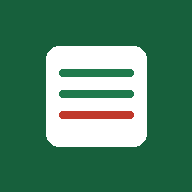
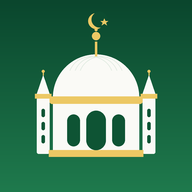
Add files via upload

diff --git a/index.html b/index.html
@@ -4,8 +4,9 @@
 <meta charset="utf-8">
 <meta name="viewport" content="width=device-width, initial-scale=1, viewport-fit=cover">
 <link rel="manifest" href="manifest.json"><meta name="theme-color" content="#17603c"><link rel="icon" href="icon-192.png"><link rel="apple-touch-icon" href="icon-192.png">
-<title>হিসাবের খাতা</title>
+<title>আল-মিফতাহ</title>
 <link href="https://fonts.googleapis.com/css2?family=Hind+Siliguri:wght@400;500;600;700&display=swap" rel="stylesheet">
+<link href="https://fonts.googleapis.com/css2?family=Amiri&display=swap" rel="stylesheet">
 <style>
 :root{--bg:#f1f5f2;--inc:#1f7a4d;--card:#fff;--ink:#14261c;--mut:#5d7066;--g:#1f7a4d;--g2:#17603c;--line:#dbe5de;--red:#c0392b;--amb:#b7791f;--blue:#2b6cb0;box-sizing:border-box;padding-top:env(safe-area-inset-top,0px);padding-bottom:env(safe-area-inset-bottom,0px)}
 @media(prefers-color-scheme:dark){:root:not([data-theme="light"]){--bg:#0f1a14;--inc:#3fae77;--card:#182a20;--ink:#e8f1ea;--mut:#9bb1a3;--g:#3fae77;--g2:#2d8a5b;--line:#2a4234;--red:#ef7a6c;--amb:#e0b050;--blue:#6aa7e8}}
@@ -70,14 +71,18 @@ header{position:relative}
 .sw{display:flex;gap:10px;margin-top:8px}.swb{width:38px;height:38px;border-radius:50%;border:3px solid transparent;cursor:pointer}.swb.on{border-color:var(--ink)}
 #lock{position:fixed;inset:0;background:var(--bg);z-index:50;display:flex;align-items:center;justify-content:center;padding:20px}#lock[hidden]{display:none}
 .lbox{width:100%;max-width:320px;text-align:center}.lbox h2{color:var(--g)}
-textarea{width:100%;padding:10px;border:1px solid var(--line);border-radius:10px;font:inherit;background:var(--bg);color:var(--ink);resize:vertical}.note{white-space:pre-wrap;margin-top:4px;word-break:break-word}.cmp{padding:10px;border-radius:10px;background:var(--bg);text-align:center;font-weight:700;margin-top:8px}.toast{position:fixed;left:50%;bottom:90px;transform:translateX(-50%);background:var(--ink);color:var(--bg);padding:12px 16px;border-radius:12px;z-index:60;max-width:90%;text-align:center}</style>
+textarea{width:100%;padding:10px;border:1px solid var(--line);border-radius:10px;font:inherit;background:var(--bg);color:var(--ink);resize:vertical}.note{white-space:pre-wrap;margin-top:4px;word-break:break-word}.cmp{padding:10px;border-radius:10px;background:var(--bg);text-align:center;font-weight:700;margin-top:8px}.toast{position:fixed;left:50%;bottom:90px;transform:translateX(-50%);background:var(--ink);color:var(--bg);padding:12px 16px;border-radius:12px;z-index:60;max-width:90%;text-align:center}.g3{display:grid;grid-template-columns:repeat(3,1fr);gap:10px;margin-top:12px}.g3 .tile{padding:12px 4px}.g3 .tile span{font-size:24px}.g3 .tile b{font-size:13px;font-weight:600}
+.ar{font-family:'Amiri','Noto Naskh Arabic','Scheherazade New',serif;direction:rtl;text-align:right;line-height:2.1;font-size:26px;margin:6px 0}.an{font-size:.6em;color:var(--g)}.tr{margin:4px 0 12px;padding-bottom:10px;border-bottom:1px solid var(--line)}
+.srb{display:flex;align-items:center;gap:10px;width:100%;padding:11px 4px;background:none;border:0;border-bottom:1px solid var(--line);font:inherit;color:var(--ink);cursor:pointer}.srb:last-child{border:0}.sno{width:34px;height:34px;border-radius:50%;background:var(--bg);display:flex;align-items:center;justify-content:center;font-size:13px;color:var(--g);font-weight:700}
+details{border-bottom:1px solid var(--line);padding:8px 0}summary{cursor:pointer;font-weight:600}</style>
 </head>
 <body>
-<header><button id="mb" aria-label="মেনু">☰</button><h1>হিসাবের খাতা</h1><p id="hsub">আয়–ব্যয়ের সহজ হিসাব</p></header>
+<header><button id="mb" aria-label="মেনু">☰</button><h1>আল-মিফতাহ</h1><p id="hsub">ইবাদত ও হিসাব এক জায়গায়</p></header>
 <main id="app"></main>
 <div id="dov"></div>
 <nav id="drw" aria-label="মেনু"><div id="dtop"></div>
-<button class="mi" data-m="home">🏠 হোম</button>
+<button class="mi" data-m="hub">🕌 আল-মিফতাহ (মূল পাতা)</button>
+<button class="mi" data-m="home">📒 হিসাবের খাতা</button>
 <button class="mi" data-m="books">📚 আমার পেইজসমূহ</button>
 <button class="mi" data-m="acct">✉ Google অ্যাকাউন্ট (Gmail)</button>
 <button class="mi" data-m="set">⚙ সেটিং</button>
@@ -93,7 +98,7 @@ textarea{width:100%;padding:10px;border:1px solid var(--line);border-radius:10px
 </aside>
 <script src="https://accounts.google.com/gsi/client" async defer onload="gReady()"></script>
 <script>
-var lday='',lmonth='all',pendingPic='',KEY='hishab-v1', db={entries:[]}, view='home', month=new Date().toISOString().slice(0,7);
+var lday='',lmonth='all',pendingPic='',KEY='hishab-v1', db={entries:[]}, view='hub', month=new Date().toISOString().slice(0,7);
 try{var s=localStorage.getItem(KEY);if(s)db=JSON.parse(s)}catch(e){}
 function save(skip){try{localStorage.setItem(KEY,JSON.stringify(db))}catch(e){}if(!skip&&window.gQueue)gQueue()}
 var T={income:['আয়','💰'],expense:['খরচ','🧾'],loan:['ধার–পাওনা','🤝'],saving:['সঞ্চয়','🐷'],market:['বাজার','🛒']};
@@ -105,10 +110,12 @@ function bal(f){return sum('income',f)-sum('expense',f)-sum('market',f)}
 function render(){normalize();
  var h='';
  if(view==='home'){
-  var b=bal();h+=bookBar();
+  var b=bal();h+='<button class="chip" data-v="hub" style="margin-bottom:10px">← আল-মিফতাহ মূল পাতা</button>'+bookBar();
   h+='<div class="bal"><small>বর্তমান ব্যালেন্স</small><div class="big'+(b<0?' neg':'')+'">'+tk(b)+'</div><div class="row3"><div>আয়<b>'+tk(sum('income'))+'</b></div><div>খরচ + বাজার<b>'+tk(sum('expense')+sum('market'))+'</b></div><div>সঞ্চয়<b>'+tk(sum('saving'))+'</b></div></div></div>'+limitCard()+zakatBanner()+'<div class="grid">';
   ['income','expense','loan','saving','market'].forEach(function(k){h+='<button class="tile" data-v="'+k+'"><span>'+T[k][1]+'</span><b>'+T[k][0]+'</b></button>'});
   h+='<button class="tile" data-v="month"><span>📅</span><b>মাসিক হিসাব</b></button><button class="tile wide" data-v="chart"><span>📋</span><b>সব <i class="cg">আয়</i>–<i class="cr">ব্যয়</i></b></button><button class="tile" data-v="notes"><span>📝</span><b>নোট</b></button><button class="tile" data-v="cash"><span>💵</span><b>নোটের হিসাব</b></button><button class="tile wide" data-v="zakat"><span>🕌</span><b>যাকাত হিসাব</b></button></div><div class="panel"><b>ডাটা ব্যাকআপ</b><button class="btn" id="exp">ব্যাকআপ ফাইল নামান</button><button class="btn" id="imp" style="background:var(--g2)">ফাইল থেকে ফিরিয়ে আনুন</button><input type="file" id="impf" accept=".json,application/json" hidden><div id="msg" class="empty"></div></div>';
+ } else if(isHub(view)){
+  h+=hubHtml();
  } else if(view==='books'){
   h+=hd('পেইজসমূহ')+booksHtml();
  } else if(view==='notes'){
@@ -140,7 +147,7 @@ function render(){normalize();
   list.forEach(function(e){h+='<div class="item">'+(e.pic?'<img class="ph" src="'+e.pic+'" alt="">':'')+'<div style="flex:1">'+esc(e.note||'—')+'<small>'+(isL?e.dir+' · ':'')+e.date+'</small></div><div><span class="amt">'+tk(e.amt)+'</span> '+(isL?'<button class="chip" data-s="'+e.id+'">'+(e.done?'মিটেছে ✓':'বাকি')+'</button>'+(e.dir==='পাওনা'&&!e.done?'<button class="chip" data-lm="'+e.id+'" aria-label="বার্তা">✉</button>':''):'')+(k==='income'?'<button class="chip" data-rc="'+e.id+'" aria-label="রসিদ">🧾</button>':'')+'<button class="x" data-d="'+e.id+'" aria-label="মুছুন">✕</button></div></div>'});
   h+='</div>';
  }
- $('app').innerHTML=h;$('app').style.marginTop='16px';var hs=$('hsub');if(hs){var cb=curBook();hs.textContent=cb.name+(cb.sub?' · '+cb.sub:'')}
+ $('app').innerHTML=h;$('app').style.marginTop='16px';var hs=$('hsub');if(hs){var cb=curBook();hs.textContent=(isHub(view)||view==='set'||view==='acct')?'ইবাদত ও হিসাব এক জায়গায়':cb.name+(cb.sub?' · '+cb.sub:'')}if(typeof hubAfter==='function')hubAfter();
 }
 function ledgerHtml(){
  var all=bookE().filter(function(e){return e.type==='income'||e.type==='expense'||e.type==='market'}),ms=[],h='',ti=0,te=0;
@@ -173,7 +180,7 @@ function importData(f){
     if(!e.bk)e.bk=cur;e.id=Number(e.id)||Date.now()+n;e.note=String(e.note||'');db.entries.push(e);ids[e.id]=1;n++});
    normalize();(o.books||[]).forEach(function(b){if(b&&b.id&&!db.books.some(function(x){return x.id===b.id}))db.books.push({id:+b.id,name:String(b.name||'পেইজ'),sub:String(b.sub||'')})});
    (o.notes||[]).forEach(function(q){if(q&&q.id&&!db.notes.some(function(x){return x.id===q.id}))db.notes.push({id:+q.id,bk:+q.bk||cur,title:String(q.title||''),text:String(q.text||''),date:String(q.date||'')})});
-   db.cash=Object.assign({},o.cash||{},db.cash||{});save();ok=true}catch(x){}
+   db.cash=Object.assign({},o.cash||{},db.cash||{});db.cfg=Object.assign({},o.cfg||{},db.cfg||{});db.amol=Object.assign({},o.amol||{},db.amol||{});save();ok=true}catch(x){}
   render();var m=$('msg');if(m)m.textContent=ok?n.toLocaleString('bn-BD')+' টি এন্ট্রি ফিরে এসেছে':'ফাইলটি সঠিক ব্যাকআপ নয়'};
  r.readAsText(f)
 }
@@ -381,7 +388,7 @@ applySet();lockNow();
 var cur=+lsGet('hishab-bk')||0,bedit=0,nedit=0,DN=[1000,500,200,100,50,20,10,5,2,1];
 function setCur(v){cur=v;lsSet('hishab-bk',String(v))}
 function normalize(){
- if(!db.entries)db.entries=[];if(!db.del)db.del=[];if(!db.notes)db.notes=[];if(!db.cash)db.cash={};if(!db.cfg)db.cfg={};
+ if(!db.entries)db.entries=[];if(!db.del)db.del=[];if(!db.notes)db.notes=[];if(!db.cash)db.cash={};if(!db.cfg)db.cfg={};if(!db.amol)db.amol={};if(!db.amolx)db.amolx=[];
  if(!db.books||!db.books.length)db.books=[{id:1,name:'আমার হিসাব',sub:''}];
  var ok={};db.books.forEach(function(b){ok[b.id]=1});var d=db.books[0].id;
  db.entries.forEach(function(e){if(!ok[e.bk])e.bk=d});
@@ -453,7 +460,7 @@ function merge(rm){
  db.entries=mergeList(rm.entries,db.entries,del);
  db.books=mergeList(rm.books,db.books,del);
  db.notes=mergeList(rm.notes,db.notes,del);
- db.cash=Object.assign({},rm.cash||{},db.cash||{});db.cfg=Object.assign({},rm.cfg||{},db.cfg||{});
+ db.cash=Object.assign({},rm.cash||{},db.cash||{});db.cfg=Object.assign({},rm.cfg||{},db.cfg||{});db.amol=Object.assign({},rm.amol||{},db.amol||{});db.amolx=mergeList(rm.amolx,db.amolx,del);
  db.del=Object.keys(del).map(Number);normalize();
 }
 $('app').addEventListener('input',function(ev){
@@ -568,7 +575,285 @@ $('app').addEventListener('input',function(ev){
  else if(t.dataset.z){var c=cf();c.z=c.z||{};c.z[t.dataset.z]=t.value;save();var o=$('zout');if(o)o.innerHTML=zout()}
  else if(t.dataset.lim){cf().lim=Math.max(0,parseFloat(t.value)||0);save()}
 });
-function hd(t){return '<div class="top"><button class="back" data-v="home">← ফিরুন</button><h2>'+t+'</h2></div>'}
+/* ===== আল-মিফতাহ: ইবাদত অংশ ===== */
+var HUBV={hub:1,salat:1,quran:1,surah:1,hadith:1,dua:1,masail:1,library:1,essay:1,live:1,qibla:1,tasbih:1,amol:1},curS=1,QC={},CT=null,amd=null,tk1=null,hdBusy=0;
+function isHub(v){return !!HUBV[v]}
+function mfs(){try{return JSON.parse(lsGet('mf-set'))||{}}catch(e){return {}}}
+function mfw(o){lsSet('mf-set',JSON.stringify(o))}
+function hdH(t,back){return '<div class="top"><button class="back" data-v="'+(back||'hub')+'">← ফিরুন</button><h2>'+t+'</h2></div>'}
+function mfLd(){return '<div class="empty">লোড হচ্ছে…</div>'}
+function mfOff(){return '<div class="empty">ইন্টারনেট থেকে লোড করা যায়নি। সংযোগ দেখে আবার চেষ্টা করুন।</div>'}
+function jget(urls){var i=0;return new Promise(function(res,rej){(function nx(){if(i>=urls.length)return rej();fetch(urls[i++]).then(function(r){if(!r.ok)throw 0;return r.json()}).then(res,nx)})()})}
+function dkey(d){d=d||new Date();return d.getFullYear()+'-'+('0'+(d.getMonth()+1)).slice(-2)+'-'+('0'+d.getDate()).slice(-2)}
+function loadContent(cb){
+ fetch('content.json?'+Date.now()).then(function(r){if(!r.ok)throw 0;return r.json()}).then(function(j){CT=j;lsSet('mf-ct',JSON.stringify(j));cb(j)}).catch(function(){var c={};try{c=JSON.parse(lsGet('mf-ct'))||{}}catch(e){}CT=c;cb(c)});
+}
+/* ---------- জেলা ও নামাজের সময় ---------- */
+var DIST=[['ঢাকা',23.8103,90.4125],['গাজীপুর',24.0023,90.4264],['নারায়ণগঞ্জ',23.6238,90.5],['নরসিংদী',23.9322,90.7151],['মানিকগঞ্জ',23.8644,90.0047],['মুন্সিগঞ্জ',23.5422,90.5305],['টাঙ্গাইল',24.2513,89.9167],['কিশোরগঞ্জ',24.4449,90.7766],['ফরিদপুর',23.607,89.8429],['রাজবাড়ী',23.7574,89.6444],['গোপালগঞ্জ',23.005,89.8266],['মাদারীপুর',23.1641,90.1896],['শরীয়তপুর',23.2423,90.4348],['চট্টগ্রাম',22.3569,91.7832],['কক্সবাজার',21.4272,92.0058],['কুমিল্লা',23.4607,91.1809],['ব্রাহ্মণবাড়িয়া',23.9608,91.1115],['চাঁদপুর',23.2332,90.6712],['লক্ষ্মীপুর',22.9425,90.8412],['নোয়াখালী',22.8696,91.0995],['ফেনী',23.0159,91.3976],['খাগড়াছড়ি',23.1193,91.9847],['রাঙ্গামাটি',22.6372,92.2],['বান্দরবান',22.1953,92.2184],['সিলেট',24.8949,91.8687],['মৌলভীবাজার',24.4829,91.7774],['হবিগঞ্জ',24.3745,91.4155],['সুনামগঞ্জ',25.0658,91.4073],['রাজশাহী',24.3745,88.6042],['চাঁপাইনবাবগঞ্জ',24.5965,88.2775],['নওগাঁ',24.7936,88.9318],['নাটোর',24.4206,89.0003],['বগুড়া',24.8465,89.3777],['জয়পুরহাট',25.0968,89.0227],['পাবনা',24.0064,89.2372],['সিরাজগঞ্জ',24.4534,89.7006],['রংপুর',25.7439,89.2752],['দিনাজপুর',25.6217,88.6354],['গাইবান্ধা',25.3297,89.543],['কুড়িগ্রাম',25.8054,89.6361],['লালমনিরহাট',25.9923,89.2847],['নীলফামারী',25.9318,88.856],['পঞ্চগড়',26.3411,88.5541],['ঠাকুরগাঁও',26.0337,88.4616],['খুলনা',22.8456,89.5403],['বাগেরহাট',22.6602,89.7859],['সাতক্ষীরা',22.7185,89.0705],['যশোর',23.1665,89.2081],['নড়াইল',23.1725,89.5126],['মাগুরা',23.4873,89.4199],['ঝিনাইদহ',23.5448,89.1539],['কুষ্টিয়া',23.9013,89.12],['চুয়াডাঙ্গা',23.6402,88.8418],['মেহেরপুর',23.7622,88.6318],['বরিশাল',22.701,90.3535],['ভোলা',22.6859,90.6482],['পটুয়াখালী',22.3596,90.3299],['পিরোজপুর',22.5791,89.9759],['ঝালকাঠি',22.6406,90.1987],['বরগুনা',22.0953,90.1121],['ময়মনসিংহ',24.7471,90.4203],['জামালপুর',24.9375,89.9372],['শেরপুর',25.0204,90.0152],['নেত্রকোনা',24.8703,90.7279]];
+var PN=[['fajr','ফজর'],['sunrise','সূর্যোদয়'],['dhuhr','যোহর'],['asr','আসর (হানাফি)'],['maghrib','মাগরিব'],['isha','ইশা']];
+function dr(x){return x*Math.PI/180}function rd(x){return x*180/Math.PI}
+function fixA(a){return a-360*Math.floor(a/360)}function fixH(a){return a-24*Math.floor(a/24)}
+function julian(y,m,d){if(m<=2){y-=1;m+=12}var A=Math.floor(y/100),B=2-A+Math.floor(A/4);return Math.floor(365.25*(y+4716))+Math.floor(30.6001*(m+1))+d+B-1524.5}
+function sunPos(jd){var D=jd-2451545,g=fixA(357.529+0.98560028*D),q=fixA(280.459+0.98564736*D),L=fixA(q+1.915*Math.sin(dr(g))+0.02*Math.sin(dr(2*g))),e=23.439-0.00000036*D,RA=rd(Math.atan2(Math.cos(dr(e))*Math.sin(dr(L)),Math.cos(dr(L))))/15;return{eq:q/15-fixH(RA),dc:rd(Math.asin(Math.sin(dr(e))*Math.sin(dr(L))))}}
+function ptimes(y,m,d,lat,lng,tz){
+ var jd=julian(y,m,d)-lng/(15*24);
+ function mid(t){return fixH(12-sunPos(jd+t).eq)}
+ function ang(a,t,ccw){var dc=sunPos(jd+t).dc,x=(-Math.sin(dr(a))-Math.sin(dr(dc))*Math.sin(dr(lat)))/(Math.cos(dr(dc))*Math.cos(dr(lat)));x=Math.max(-1,Math.min(1,x));return mid(t)+(ccw?-1:1)*rd(Math.acos(x))/15}
+ function asr(f,t){var dc=sunPos(jd+t).dc;return ang(-rd(Math.atan(1/(f+Math.tan(dr(Math.abs(lat-dc)))))),t)}
+ var r={fajr:ang(18,5/24,1),sunrise:ang(0.833,6/24,1),dhuhr:mid(12/24),asr:asr(2,13/24),maghrib:ang(0.833,18/24),isha:ang(18,18/24)};
+ for(var k in r)r[k]+=tz-lng/15;
+ r.dhuhr+=1/60;
+ return r;
+}
+function qiblaB(lat,lng){var k1=dr(21.4225),k2=dr(39.8262),p1=dr(lat),dl=k2-dr(lng),y=Math.sin(dl)*Math.cos(k1),x=Math.cos(p1)*Math.sin(k1)-Math.sin(p1)*Math.cos(k1)*Math.cos(dl);return fixA(rd(Math.atan2(y,x)))}
+function locInfo(){var s=mfs();if(s.gps)return{name:'আমার অবস্থান',lat:s.gps[0],lng:s.gps[1],tz:-new Date().getTimezoneOffset()/60};var d=DIST[s.d||0]||DIST[0];return{name:d[0],lat:d[1],lng:d[2],tz:6}}
+function nowTz(tz){return new Date(Date.now()+tz*3600e3)}
+function todayTimes(){var L=locInfo(),n=nowTz(L.tz),r=ptimes(n.getUTCFullYear(),n.getUTCMonth()+1,n.getUTCDate(),L.lat,L.lng,L.tz),a=mfs().adj||{};for(var k in r)r[k]+=(+a[k]||0)/60;return r}
+function pPeriod(h){return h>=3&&h<6?'ভোর':h>=6&&h<12?'সকাল':h>=12&&h<15?'দুপুর':h>=15&&h<17?'বিকাল':h>=17&&h<19?'সন্ধ্যা':'রাত'}
+function mfFmt(hr){var m=Math.round(hr*60),hh=Math.floor(m/60)%24,mm=((m%60)+60)%60,h12=hh%12||12;return bd(('0'+h12).slice(-2)+':'+('0'+mm).slice(-2))+' '+pPeriod(hh)}
+function mfLeft(h){var m=Math.max(0,Math.round(h*60)),a=Math.floor(m/60),b=m%60;return (a?bn(a)+' ঘণ্টা ':'')+bn(b)+' মিনিট'}
+function nextP(){
+ var L=locInfo(),n=nowTz(L.tz),h=n.getUTCHours()+n.getUTCMinutes()/60+n.getUTCSeconds()/3600,t=todayTimes(),o=['fajr','dhuhr','asr','maghrib','isha'];
+ for(var i=0;i<5;i++)if(t[o[i]]>h)return{k:o[i],at:t[o[i]],left:t[o[i]]-h};
+ var m=new Date(n.getTime()+864e5),r=ptimes(m.getUTCFullYear(),m.getUTCMonth()+1,m.getUTCDate(),L.lat,L.lng,L.tz),a=mfs().adj||{},f=r.fajr+(+a.fajr||0)/60+24;
+ return{k:'fajr',at:f,left:f-h};
+}
+function pName(k){for(var i=0;i<PN.length;i++)if(PN[i][0]===k)return PN[i][1];return k}
+function nextHtml(){var p=nextP();return '<b style="font-size:18px">'+pName(p.k)+' · '+mfFmt(p.at)+'</b><br><small style="color:var(--mut)">'+mfLeft(p.left)+' বাকি · '+esc(locInfo().name)+'</small>'}
+function gdate(){var n=nowTz(locInfo().tz);try{return n.toLocaleDateString('bn-BD',{weekday:'long',day:'numeric',month:'long',year:'numeric',timeZone:'UTC'})}catch(e){return ''}}
+function hijriS(){var s=mfs(),n=nowTz(locInfo().tz),d=new Date(n.getTime()+(s.hj||0)*864e5);try{return new Intl.DateTimeFormat('bn-BD-u-ca-islamic-umalqura',{day:'numeric',month:'long',year:'numeric',timeZone:'UTC'}).format(d).replace(/\s*যুগ\s*$/,'')+' হিজরি'}catch(e){return ''}}
+function salatHtml(){
+ var s=mfs(),L=locInfo(),t=todayTimes(),np=nextP(),a=s.adj||{},hj=s.hj||0;
+ var opts=DIST.map(function(d,i){return '<option value="'+i+'"'+(!s.gps&&(s.d||0)===i?' selected':'')+'>'+d[0]+'</option>'}).join('');
+ var h='<div class="panel"><label style="margin:0">জেলা</label><select id="ptd">'+(s.gps?'<option value="g" selected>আমার অবস্থান (GPS)</option>':'')+opts+'</select><button class="chip" data-h="gps" style="margin-top:8px">📍 আমার অবস্থান ব্যবহার করুন</button><div id="gpm" class="empty"></div></div>';
+ h+='<div class="panel"><b>আজকের সময়সূচি, '+esc(L.name)+'</b><small style="color:var(--mut);display:block;margin-bottom:6px">গণনা: করাচি পদ্ধতি (ফজর ও ইশা ১৮°), আসর হানাফি মতে (ছায়া দ্বিগুণ)।</small>';
+ PN.forEach(function(p){var n=p[0]===np.k;h+='<div class="item"'+(n?' style="background:var(--bg);border-radius:8px;padding-left:8px;padding-right:8px"':'')+'><div style="flex:1;font-weight:600">'+p[1]+(n?' ←':'')+'</div><b>'+mfFmt(t[p[0]])+'</b></div>'});
+ h+='<div class="sum"><span>সেহরির শেষ সময়</span><b>'+mfFmt(t.fajr)+'</b></div><div class="sum"><span>ইফতারের সময়</span><b>'+mfFmt(t.maghrib)+'</b></div></div>';
+ h+='<div class="panel"><b>সময় মিলিয়ে নিন (মিনিট)</b><small style="color:var(--mut);display:block">স্থানীয় মসজিদ বা ইসলামিক ফাউন্ডেশনের সময়ের সঙ্গে মিলিয়ে + বা − দিন। গণনায় ১–২ মিনিট ফারাক হতে পারে।</small>';
+ PN.forEach(function(p){h+='<label>'+p[1]+'</label><input type="number" inputmode="numeric" data-adj="'+p[0]+'" value="'+(a[p[0]]||0)+'">'});
+ h+='</div><div class="panel"><b>হিজরি তারিখ</b><div class="empty">'+hijriS()+'</div><div class="row3" style="flex-wrap:wrap"><button class="chip" data-h="hj:-1">'+(hj===-1?'✓ ':'')+'−১ দিন</button><button class="chip" data-h="hj:0">'+(hj===0?'✓ ':'')+'ঠিক আছে</button><button class="chip" data-h="hj:1">'+(hj===1?'✓ ':'')+'+১ দিন</button></div><small style="color:var(--mut)">চাঁদ দেখার ভিত্তিতে বাংলাদেশে ১ দিন কমবেশি হতে পারে।</small></div>';
+ return h;
+}
+/* ---------- কিবলা ---------- */
+function qiblaHtml(){
+ var L=locInfo(),b=qiblaB(L.lat,L.lng);
+ return '<div class="panel" style="text-align:center"><b>কিবলার দিক</b><div class="empty">'+esc(L.name)+' থেকে উত্তর বরাবর '+bd(b.toFixed(1))+'° (ঘড়ির কাঁটার দিকে)</div><div style="position:relative;width:230px;height:230px;margin:10px auto;border:3px solid var(--line);border-radius:50%"><div style="position:absolute;left:50%;top:4px;transform:translateX(-50%);font-size:13px;color:var(--mut)">উত্তর</div><div id="qarrow" style="position:absolute;inset:0;transform:rotate('+b+'deg);transition:transform .15s"><div style="position:absolute;left:50%;top:22px;transform:translateX(-50%);font-size:34px">🕋</div><div style="position:absolute;left:50%;top:66px;width:5px;height:70px;background:var(--g);transform:translateX(-50%);border-radius:3px"></div></div></div><div id="qst" class="empty">কম্পাস বন্ধ। ফোন সমতলে ধরে নিচের বাটন চাপুন।</div><button class="btn" data-h="qb">📡 কম্পাস চালু করুন</button><small style="color:var(--mut);display:block;margin-top:8px">কম্পাস ফোনের সেন্সরের ওপর নির্ভর করে। লোহা বা চুম্বকের কাছ থেকে দূরে রাখুন। সন্দেহ হলে মসজিদের মিহরাবের দিক দেখে নিন।</small></div>';
+}
+var qBearing=0;
+function qOri(e){
+ var h=null;if(e.webkitCompassHeading!==undefined&&e.webkitCompassHeading!==null)h=e.webkitCompassHeading;else if((e.absolute||e.type==='deviceorientationabsolute')&&e.alpha!==null)h=360-e.alpha;
+ if(h===null)return;var a=$('qarrow'),s=$('qst');if(!a)return;
+ var d=fixA(qBearing-h);a.style.transform='rotate('+d+'deg)';
+ if(s)s.textContent=(d<5||d>355)?'✅ কিবলার দিকে আছেন':'ফোন ঘুরিয়ে 🕋 ওপরে আনুন';
+}
+function qStart(){
+ var L=locInfo();qBearing=qiblaB(L.lat,L.lng);
+ var go=function(){window.addEventListener('deviceorientationabsolute',qOri,true);window.addEventListener('deviceorientation',qOri,true);var s=$('qst');if(s)s.textContent='কম্পাস চালু। ফোন ঘুরান…'};
+ if(window.DeviceOrientationEvent&&DeviceOrientationEvent.requestPermission){DeviceOrientationEvent.requestPermission().then(function(r){if(r==='granted')go();else{var s=$('qst');if(s)s.textContent='অনুমতি দেওয়া হয়নি'}})}else go();
+}
+/* ---------- তাসবিহ ---------- */
+var TBL=['সুবহানাল্লাহ','আলহামদুলিল্লাহ','আল্লাহু আকবার','আস্তাগফিরুল্লাহ','লা ইলাহা ইল্লাল্লাহ','দুরূদ শরীফ'];
+function tbS(){var s=mfs();s.tb=s.tb||{c:0,t:33,l:0,tot:{}};s.tb.tot=s.tb.tot||{};return s}
+function tbInfo(tb){return 'লক্ষ্য: '+bd(tb.t)+' · আজ মোট: '+bd(tb.tot[dkey()]||0)+(tb.c>=tb.t?' · ✅ লক্ষ্য পূর্ণ':'')}
+function tasbihHtml(){
+ var tb=tbS().tb;
+ var h='<div class="panel" style="text-align:center"><div id="tbl" style="font-size:20px;font-weight:700;color:var(--g)">'+TBL[tb.l]+'</div><div id="tbc" style="font-size:64px;font-weight:700;margin:4px 0">'+bd(tb.c)+'</div><div class="empty" id="tbt">'+tbInfo(tb)+'</div><button data-h="tb:+" style="width:170px;height:170px;border-radius:50%;border:0;background:var(--g);color:#fff;font:inherit;font-size:22px;font-weight:700;cursor:pointer;box-shadow:0 6px 16px rgba(0,0,0,.25);margin:6px 0 12px">ট্যাপ করুন</button><div class="row3" style="flex-wrap:wrap;justify-content:center">';
+ [33,99,100,1000].forEach(function(t){h+='<button class="chip" data-h="tb:t:'+t+'">'+(tb.t===t?'✓ ':'')+'লক্ষ্য '+bd(t)+'</button>'});
+ h+='</div><div class="row3" style="flex-wrap:wrap;justify-content:center">';
+ TBL.forEach(function(x,i){h+='<button class="chip" data-h="tb:l:'+i+'">'+(tb.l===i?'✓ ':'')+x+'</button>'});
+ return h+'</div><button class="btn" data-h="tb:r" style="background:var(--mut)">০ থেকে শুরু</button></div>';
+}
+function tbTap(){
+ var s=tbS(),tb=s.tb,d=dkey();tb.c++;tb.tot[d]=(tb.tot[d]||0)+1;mfw(s);
+ var c=$('tbc');if(c)c.textContent=bd(tb.c);var t=$('tbt');if(t)t.textContent=tbInfo(tb);
+ if(navigator.vibrate)navigator.vibrate(tb.c%tb.t===0?[80,60,80]:12);
+}
+/* ---------- আমল ট্র্যাকার ---------- */
+var AM=[['fajr','ফজরের নামাজ'],['dhuhr','যোহরের নামাজ'],['asr','আসরের নামাজ'],['maghrib','মাগরিবের নামাজ'],['isha','ইশার নামাজ'],['quran','কুরআন তিলাওয়াত'],['zikr','সকাল-সন্ধ্যার যিকির'],['istig','ইস্তিগফার'],['durood','দুরূদ পাঠ'],['duha','সালাতুদ দুহা (চাশত)'],['tahaj','তাহাজ্জুদ'],['sadaqa','সদকা'],['roza','নফল রোজা']];
+function amItems(){return AM.concat((db.amolx||[]).map(function(x){return ['x'+x.id,x.name]}))}
+function amShift(d,n){var p=d.split('-'),x=new Date(+p[0],+p[1]-1,+p[2]+n);return dkey(x)}
+function amStreak(){
+ var c=0,d=dkey(),five=['fajr','dhuhr','asr','maghrib','isha'];
+ var ok=function(k){var r=db.amol[k]||{};return five.every(function(x){return r[x]})};
+ if(!ok(d))d=amShift(d,-1);
+ while(c<400&&ok(d)){c++;d=amShift(d,-1)}return c;
+}
+function amolHtml(){
+ normalize();var d=amd||(amd=dkey()),day=db.amol[d]||{},it=amItems(),done=0;
+ it.forEach(function(x){if(day[x[0]])done++});
+ var h='<div class="panel" style="text-align:center"><div class="row3" style="justify-content:center;align-items:center"><button class="chip" data-h="am:p">←</button><b style="flex:1">'+bd(d)+(d===dkey()?' (আজ)':'')+'</b><button class="chip" data-h="am:n">→</button></div><div style="font-size:30px;font-weight:700;color:var(--g);margin-top:6px">'+bd(done)+' / '+bd(it.length)+'</div><small style="color:var(--mut)">পাঁচ ওয়াক্তের ধারাবাহিকতা: '+bd(amStreak())+' দিন</small>';
+ var bars='';for(var i=6;i>=0;i--){var k=amShift(dkey(),-i),r=db.amol[k]||{},c=0;it.forEach(function(x){if(r[x[0]])c++});bars+='<div style="flex:1;text-align:center;font-size:11px;color:var(--mut)"><div style="height:44px;display:flex;align-items:flex-end;justify-content:center"><div style="width:60%;height:'+Math.round(c/it.length*100)+'%;min-height:3px;background:var(--g);border-radius:4px"></div></div>'+bd(k.slice(8))+'</div>'}
+ h+='<div style="display:flex;gap:4px;margin-top:10px">'+bars+'</div></div><div class="panel">';
+ it.forEach(function(x){var on=day[x[0]];h+='<div class="item"><button data-h="am:t:'+x[0]+'" style="flex:1;text-align:left;background:none;border:0;font:inherit;font-size:16px;color:var(--ink);cursor:pointer;padding:6px 0">'+(on?'✅ ':'⬜ ')+esc(x[1])+'</button>'+(x[0].charAt(0)==='x'?'<button class="x" data-h="am:d:'+x[0].slice(1)+'" aria-label="মুছুন">✕</button>':'')+'</div>'});
+ return h+'</div><div class="panel"><b>নিজের আমল যোগ করুন</b><input id="amn" placeholder="যেমন: সূরা মুলক পাঠ"><button class="btn" data-h="am:a">যোগ করুন</button></div>';
+}
+/* ---------- কুরআন ---------- */
+var SN=['আল-ফাতিহা','আল-বাকারা','আলে ইমরান','আন-নিসা','আল-মায়িদা','আল-আনআম','আল-আরাফ','আল-আনফাল','আত-তাওবা','ইউনুস','হূদ','ইউসুফ','আর-রাদ','ইবরাহীম','আল-হিজর','আন-নাহল','আল-ইসরা','আল-কাহফ','মারইয়াম','ত্বা-হা','আল-আম্বিয়া','আল-হাজ্জ','আল-মুমিনূন','আন-নূর','আল-ফুরকান','আশ-শুআরা','আন-নামল','আল-কাসাস','আল-আনকাবূত','আর-রূম','লুকমান','আস-সাজদা','আল-আহযাব','সাবা','ফাতির','ইয়া-সীন','আস-সাফফাত','সোয়াদ','আয-যুমার','গাফির','হা-মীম আস-সাজদা','আশ-শূরা','আয-যুখরুফ','আদ-দুখান','আল-জাসিয়া','আল-আহকাফ','মুহাম্মাদ','আল-ফাতহ','আল-হুজুরাত','ক্বাফ','আয-যারিয়াত','আত-তূর','আন-নাজম','আল-কামার','আর-রহমান','আল-ওয়াকিয়া','আল-হাদীদ','আল-মুজাদালা','আল-হাশর','আল-মুমতাহিনা','আস-সাফ','আল-জুমুআ','আল-মুনাফিকূন','আত-তাগাবুন','আত-তালাক','আত-তাহরীম','আল-মুলক','আল-কলম','আল-হাক্কাহ','আল-মাআরিজ','নূহ','আল-জিন','আল-মুযযাম্মিল','আল-মুদ্দাসসির','আল-কিয়ামাহ','আদ-দাহর','আল-মুরসালাত','আন-নাবা','আন-নাযিআত','আবাসা','আত-তাকবীর','আল-ইনফিতার','আল-মুতাফফিফীন','আল-ইনশিকাক','আল-বুরূজ','আত-তারিক','আল-আ’লা','আল-গাশিয়া','আল-ফাজর','আল-বালাদ','আশ-শামস','আল-লাইল','আদ-দুহা','আল-ইনশিরাহ','আত-তীন','আল-আলাক','আল-কদর','আল-বায়্যিনাহ','আয-যিলযাল','আল-আদিয়াত','আল-কারিআহ','আত-তাকাসুর','আল-আসর','আল-হুমাযাহ','আল-ফীল','কুরাইশ','আল-মাউন','আল-কাউসার','আল-কাফিরূন','আন-নাসর','আল-লাহাব','আল-ইখলাস','আল-ফালাক','আন-নাস'];
+var QAPI='https://api.alquran.cloud/v1/';
+function surahRows(q){
+ var h='',n=0;
+ SN.forEach(function(nm,i){if(q&&nm.indexOf(q)<0&&String(i+1)!==q&&bd(i+1)!==q)return;n++;h+='<button class="srb" data-h="sr:'+(i+1)+'"><span class="sno">'+bd(i+1)+'</span><span style="flex:1;text-align:left">'+nm+'</span></button>'});
+ return n?h:'<div class="empty">পাওয়া যায়নি</div>';
+}
+function quranHtml(){
+ var l=mfs().ql;
+ return '<div class="panel"><input id="qs" placeholder="সূরার নাম বা নম্বর লিখুন">'+(l?'<button class="chip" data-h="sr:'+l+'" style="margin-top:8px">শেষ পড়া: সূরা '+SN[l-1]+'</button>':'')+'</div><div class="panel" id="qlist">'+surahRows('')+'</div><div class="panel"><small style="color:var(--mut)">আরবি: Al-Quran Cloud (উসমানি লিপি)। বাংলা অনুবাদ: মুহিউদ্দীন খান। কোনো অনুবাদ কুরআনের বিকল্প নয়। ইন্টারনেট থেকে প্রথমবার লোড হয়, পরে ফোনে জমা থাকে।</small></div>';
+}
+function surahHtml(){
+ var n=curS;
+ return hdH('সূরা '+SN[n-1],'quran')+'<div class="panel"><div class="row3" style="flex-wrap:wrap"><button class="chip" data-h="qf:-">A−</button><button class="chip" data-h="qf:+">A+</button>'+(n>1?'<button class="chip" data-h="sr:'+(n-1)+'">← আগের</button>':'')+(n<114?'<button class="chip" data-h="sr:'+(n+1)+'">পরের →</button>':'')+'</div></div><div id="sbody" class="panel">'+mfLd()+'</div>';
+}
+function showSurah(n,ar,bnT){
+ var fs=mfs().qfs||26,h='',bis='';
+ if(n!==1&&n!==9&&ar[0]&&ar[0].indexOf('بِسْمِ')===0){var w=ar[0].split(' ');bis=w.slice(0,4).join(' ');ar=ar.slice();ar[0]=w.slice(4).join(' ')}
+ if(bis)h+='<div class="ar" style="font-size:'+fs+'px;text-align:center">'+esc(bis)+'</div>';
+ ar.forEach(function(t,i){h+='<div class="ay"><div class="ar" style="font-size:'+fs+'px">'+esc(t)+' <span class="an">﴿'+bd(i+1)+'﴾</span></div><div class="tr">'+esc(bnT[i]||'')+'</div></div>'});
+ var b=$('sbody');if(b&&curS===n&&view==='surah')b.innerHTML=h;
+}
+function loadSurah(){
+ var n=curS,s=mfs();s.ql=n;mfw(s);
+ if(QC[n]){showSurah(n,QC[n][0],QC[n][1]);return}
+ var c=lsGet('mf-q'+n);if(c){try{QC[n]=JSON.parse(c);showSurah(n,QC[n][0],QC[n][1]);return}catch(e){}}
+ Promise.all([jget([QAPI+'surah/'+n+'/quran-uthmani']),jget([QAPI+'surah/'+n+'/bn.bengali'])]).then(function(r){
+  var a=r[0].data.ayahs.map(function(x){return x.text}),b=r[1].data.ayahs.map(function(x){return x.text});
+  QC[n]=[a,b];try{lsSet('mf-q'+n,JSON.stringify(QC[n]))}catch(e){}showSurah(n,a,b);
+ }).catch(function(){var b=$('sbody');if(b&&curS===n)b.innerHTML=mfOff()});
+}
+/* ---------- হাদিস ---------- */
+var HB=['https://cdn.jsdelivr.net/gh/fawazahmed0/hadith-api@1/','https://raw.githubusercontent.com/fawazahmed0/hadith-api/1/'];
+var HNM={bukhari:'সহীহ বুখারী',muslim:'সহীহ মুসলিম',abudawud:'সুনান আবু দাউদ',tirmidhi:'জামে তিরমিযী',nasai:'সুনান নাসায়ী',ibnmajah:'সুনান ইবনু মাজাহ',malik:'মুওয়াত্তা মালিক',nawawi:'আরবাঈন নববী',riyadussalihin:'রিয়াদুস সালিহীন',dehlawi:'আরবাঈন দেহলভী'};
+var HED=[];
+function hdLabel(n){var k=n.replace(/^[a-z]{3}-/,'');return (HNM[k]||k)+(/^ben-/.test(n)?'':(/^ara-/.test(n)?' (আরবি)':' (ইংরেজি)'))}
+function hadithHtml(){
+ return '<div class="panel"><label style="margin:0">সংকলন</label><select id="hed"><option>লোড হচ্ছে…</option></select><label>হাদিস নম্বর</label><input id="hdn" type="number" min="1" inputmode="numeric" value="'+(mfs().hn||1)+'"><div class="row3" style="flex-wrap:wrap"><button class="chip" data-h="hd:p">← আগের</button><button class="chip" data-h="hd:g">দেখুন</button><button class="chip" data-h="hd:n">পরের →</button><button class="chip" data-h="hd:r">🎲 এলোমেলো</button></div></div><div id="hdb" class="panel"><div class="empty">সংকলন বেছে হাদিস নম্বর দিন</div></div><div id="hdc"></div><div class="panel"><small style="color:var(--mut)">উৎস: Hadith API (fawazahmed0)। কোনো হাদিসের মান বা মাসআলা নিয়ে সন্দেহ হলে নির্ভরযোগ্য আলেমের কাছে যাচাই করুন।</small></div>';
+}
+function collectEd(o,out){
+ if(Array.isArray(o)){o.forEach(function(x){collectEd(x,out)});return}
+ if(o&&typeof o==='object'){if(typeof o.name==='string'&&/^[a-z]{3}-[a-z]+/.test(o.name)&&o.language)out.push(o);else for(var k in o)collectEd(o[k],out)}
+}
+function hadithInit(){
+ var sel=$('hed');
+ var done=function(list){
+  HED=list;var s=mfs(),ben=list.filter(function(e){return /^ben-/.test(e.name)}),use=ben.length?ben:list.filter(function(e){return /^eng-/.test(e.name)}),h='';
+  use.forEach(function(e){h+='<option value="'+esc(e.name)+'"'+(s.he===e.name?' selected':'')+'>'+esc(hdLabel(e.name))+'</option>'});
+  if(!h)h='<option value="">সংকলন পাওয়া যায়নি</option>';
+  if(sel)sel.innerHTML=h;
+  if(!ben.length&&$('hdc'))$('hdc').innerHTML='<div class="panel"><small style="color:var(--mut)">বাংলা সংস্করণ পাওয়া যায়নি, তাই ইংরেজি দেখানো হচ্ছে।</small></div>';
+  loadContent(function(c){var x=c.hadiths||[],b='';x.forEach(function(it){b+='<details class="fi"><summary>'+esc(it.title||'হাদিস')+'</summary>'+(it.ar?'<div class="ar">'+esc(it.ar)+'</div>':'')+'<div class="tr">'+esc(it.bn||it.text||'')+'</div><small style="color:var(--mut)">'+esc(it.source||'')+'</small></details>'});if(b&&$('hdc'))$('hdc').innerHTML+='<div class="panel"><b>নির্বাচিত হাদিস</b>'+b+'</div>'});
+ };
+ jget(HB.map(function(b){return b+'editions.min.json'}).concat(HB.map(function(b){return b+'editions.json'}))).then(function(j){var o=[];collectEd(j,o);done(o)}).catch(function(){if(sel)sel.innerHTML='<option value="">লোড হয়নি</option>';var b=$('hdb');if(b)b.innerHTML=mfOff()});
+}
+function htext(o){if(!o||typeof o!=='object')return '';if(o.text)return o.text;if(o.hadiths&&o.hadiths[0])return htext(o.hadiths[0]);return ''}
+function hgrades(o){var g=(o&&o.hadiths&&o.hadiths[0]||o||{}).grades;return Array.isArray(g)&&g.length?g.map(function(x){return (x.name||'')+': '+(x.grade||'')}).join(' · '):''}
+function hadithGo(n){
+ var sel=$('hed'),ed=sel&&sel.value,inp=$('hdn');if(!ed||!(n>0))return;
+ if(inp)inp.value=n;var s=mfs();s.he=ed;s.hn=n;mfw(s);
+ var b=$('hdb');if(b)b.innerHTML=mfLd();
+ var mk=function(e){var u=[];HB.forEach(function(x){u.push(x+'editions/'+e+'/'+n+'.min.json');u.push(x+'editions/'+e+'/'+n+'.json')});return jget(u)};
+ var ara=ed.replace(/^[a-z]{3}-/,'ara-'),hasAra=ed!==ara&&HED.some(function(e){return e.name===ara});
+ Promise.all([mk(ed),hasAra?mk(ara).catch(function(){return null}):Promise.resolve(null)]).then(function(r){
+  var t=htext(r[0]),a=r[1]?htext(r[1]):'',g=hgrades(r[0]);
+  if(!t&&!a){if($('hdb'))$('hdb').innerHTML='<div class="empty">এই নম্বরে হাদিস পাওয়া যায়নি</div>';return}
+  if($('hdb'))$('hdb').innerHTML='<b>'+esc(hdLabel(ed))+' · হাদিস নং '+bd(n)+'</b>'+(a?'<div class="ar" style="font-size:'+(mfs().qfs||26)+'px;margin-top:8px">'+esc(a)+'</div>':'')+'<div class="tr" style="border:0">'+esc(t)+'</div>'+(g?'<small style="color:var(--mut)">'+esc(g)+'</small>':'');
+ }).catch(function(){if($('hdb'))$('hdb').innerHTML=mfOff()});
+}
+/* ---------- দোয়া ---------- */
+var QD=[['2:201','দুনিয়া ও আখিরাতের কল্যাণের দোয়া'],['2:286','ক্ষমা ও রহমত প্রার্থনা (সূরা বাকারার শেষ আয়াত)'],['3:8','হিদায়াতের পর অন্তর বক্র না করার দোয়া'],['7:23','আদম (আ.)-এর ক্ষমা প্রার্থনা'],['14:40','নামাজ কায়েমকারী হওয়ার দোয়া'],['14:41','নিজের, পিতামাতার ও মুমিনদের জন্য ক্ষমা'],['17:24','পিতামাতার জন্য রহমতের দোয়া'],['20:25','মূসা (আ.)-এর দোয়া'],['21:87','ইউনুস (আ.)-এর দোয়া'],['25:74','পরিবার ও সন্তানদের জন্য দোয়া'],['59:10','পূর্ববর্তী মুমিনদের জন্য ক্ষমার দোয়া']];
+function duaHtml(){return '<div class="panel"><b>কুরআনের দোয়া</b><small style="color:var(--mut);display:block">আয়াত সরাসরি কুরআনের উৎস থেকে আসে, আমরা নিজে লিখিনি।</small><div id="dqb">'+mfLd()+'</div></div><div id="dcb"></div>'}
+function duaInit(){
+ var c=lsGet('mf-dua'),show=function(arr){var b=$('dqb');if(!b)return;var h='';arr.forEach(function(x,i){h+='<details class="fi"><summary>'+esc(QD[i][1])+' <small style="color:var(--mut)">('+bd(QD[i][0])+')</small></summary><div class="ar" style="font-size:'+(mfs().qfs||26)+'px">'+esc(x[0])+'</div><div class="tr">'+esc(x[1])+'</div></details>'});b.innerHTML=h};
+ if(c){try{show(JSON.parse(c))}catch(e){}}else{
+  Promise.all(QD.map(function(q){return Promise.all([jget([QAPI+'ayah/'+q[0]+'/quran-uthmani']),jget([QAPI+'ayah/'+q[0]+'/bn.bengali'])]).then(function(r){return [r[0].data.text,r[1].data.text]})})).then(function(arr){try{lsSet('mf-dua',JSON.stringify(arr))}catch(e){}show(arr)}).catch(function(){var b=$('dqb');if(b)b.innerHTML=mfOff()});
+ }
+ loadContent(function(c){var d=c.duas||[],h='';d.forEach(function(x){h+='<details class="fi"><summary>'+esc(x.title||'দোয়া')+'</summary>'+(x.ar?'<div class="ar">'+esc(x.ar)+'</div>':'')+(x.bn?'<div class="tr">'+esc(x.bn)+'</div>':'')+'<small style="color:var(--mut)">'+esc(x.source||'')+'</small></details>'});var b=$('dcb');if(b)b.innerHTML=h?'<div class="panel"><b>আরও দোয়া</b><input data-fl="1" placeholder="খুঁজুন">'+h+'</div>':''});
+}
+/* ---------- কিতাব, প্রবন্ধ, মাসায়েল, লাইভ ---------- */
+function okUrl(u){return /^(https?:\/\/|[\w\-\/\.%]+\.pdf$)/i.test(u||'')}
+function listPage(title,ph){return hdH(title)+'<div class="panel"><input data-fl="1" placeholder="খুঁজুন"></div><div id="lst" class="panel">'+mfLd()+'</div>'}
+function listInit(kind){
+ loadContent(function(c){
+  var a=c[kind]||[],h='',b=$('lst');if(!b)return;
+  a.forEach(function(x){
+   if(kind==='books'){h+='<div class="item fi"><div style="flex:1"><b>'+esc(x.title||'')+'</b><small>'+esc(x.author||'')+'</small></div>'+(okUrl(x.url)?'<a class="chip" href="'+esc(x.url)+'" target="_blank" rel="noopener" style="text-decoration:none;color:inherit">পড়ুন ↗</a>':'')+'</div>'}
+   else if(kind==='essays'){h+='<details class="fi"><summary>'+esc(x.title||'')+(x.author?' <small style="color:var(--mut)">— '+esc(x.author)+'</small>':'')+'</summary>'+(x.text?'<div class="note">'+esc(x.text)+'</div>':'')+(okUrl(x.url)?'<a class="chip" href="'+esc(x.url)+'" target="_blank" rel="noopener" style="text-decoration:none;color:inherit;display:inline-block;margin-top:6px">পুরোটা পড়ুন ↗</a>':'')+'</details>'}
+   else{h+='<details class="fi"><summary>'+esc(x.q||x.title||'')+'</summary><div class="note">'+esc(x.a||x.text||'')+'</div><small style="color:var(--mut)">'+esc(x.source||'')+'</small></details>'}
+  });
+  b.innerHTML=h||'<div class="empty">শীঘ্রই এখানে যোগ করা হবে, ইনশাআল্লাহ।</div>';
+ });
+}
+function liveHtml(){
+ var L=[['🕋 মক্কা লাইভ (মাসজিদুল হারাম)','https://makkahlive.net/tvhd.aspx'],['🕌 মদিনা লাইভ (মাসজিদুন নববী)','https://makkahlive.net/en/live/madinah'],['▶ Saudi Quran TV (ইউটিউবে খুঁজুন)','https://www.youtube.com/results?search_query=Saudi+Quran+TV+live+Makkah']];
+ var h=hdH('ইসলামিক লাইভ')+'<div class="panel"><b>মক্কা ও মদিনার সরাসরি সম্প্রচার</b><small style="color:var(--mut);display:block;margin-bottom:6px">বাটন চাপলে নতুন ট্যাবে খুলবে। সম্প্রচার সৌদি সরকারি চ্যানেলের। কিছু লিংক তৃতীয় পক্ষের সাইটে যায়।</small>';
+ L.forEach(function(x){h+='<a class="btn" href="'+x[1]+'" target="_blank" rel="noopener" style="display:block;text-align:center;text-decoration:none">'+x[0]+'</a>'});
+ return h+'</div><div id="lvx"></div>';
+}
+function liveInit(){loadContent(function(c){var a=c.live||[],h='';a.forEach(function(x){if(okUrl(x.url))h+='<a class="btn" href="'+esc(x.url)+'" target="_blank" rel="noopener" style="display:block;text-align:center;text-decoration:none;background:var(--g2)">'+esc(x.title||'লাইভ')+'</a>'});var b=$('lvx');if(b&&h)b.innerHTML='<div class="panel"><b>আরও</b>'+h+'</div>'})}
+/* ---------- মূল পাতা ---------- */
+var HT=[['salat','🕋','নামাজের সময়'],['quran','📖','কুরআন'],['hadith','📜','হাদিস'],['dua','🤲','দোয়া'],['masail','❓','মাসায়েল'],['library','📚','কিতাব'],['essay','✍','প্রবন্ধ'],['live','📺','ইসলামিক লাইভ'],['qibla','🧭','কিবলা'],['tasbih','📿','তাসবিহ'],['amol','✅','আমল ট্র্যাকার'],['set','🎨','থিম ও সেটিং']];
+function hubHome(){
+ var h='<div class="bal"><small>আজ</small><div style="font-size:17px;font-weight:600">'+gdate()+'</div><div style="color:var(--g);font-weight:600">'+hijriS()+'</div><div id="nxt" style="margin-top:10px">'+nextHtml()+'</div></div><div class="grid"><button class="tile wide" data-v="home" style="margin-top:0"><span>📒</span><b>হিসাবের খাতা</b></button></div><div class="g3">';
+ HT.forEach(function(t){h+='<button class="tile" data-v="'+t[0]+'"><span>'+t[1]+'</span><b>'+t[2]+'</b></button>'});
+ return h+'</div>';
+}
+function hubHtml(){
+ switch(view){
+  case 'hub':return hubHome();
+  case 'salat':return hdH('নামাজের সময়সূচি')+salatHtml();
+  case 'quran':return hdH('কুরআন')+quranHtml();
+  case 'surah':return surahHtml();
+  case 'hadith':return hdH('হাদিস')+hadithHtml();
+  case 'dua':return hdH('দোয়া')+duaHtml();
+  case 'masail':return listPage('মাসায়েল');
+  case 'library':return listPage('কিতাব (PDF)');
+  case 'essay':return listPage('প্রবন্ধ');
+  case 'live':return liveHtml();
+  case 'qibla':return hdH('কিবলা')+qiblaHtml();
+  case 'tasbih':return hdH('তাসবিহ')+tasbihHtml();
+  case 'amol':return hdH('আমল ট্র্যাকার')+amolHtml();
+ }
+ return '';
+}
+function hubAfter(){
+ if(tk1){clearInterval(tk1);tk1=null}
+ if(view==='hub'||view==='salat')tk1=setInterval(function(){var e=$('nxt');if(e)e.innerHTML=nextHtml()},20000);
+ if(view==='surah')loadSurah();
+ else if(view==='hadith')hadithInit();
+ else if(view==='dua')duaInit();
+ else if(view==='masail')listInit('masail');
+ else if(view==='library')listInit('books');
+ else if(view==='essay')listInit('essays');
+ else if(view==='live')liveInit();
+ else if(view==='qibla'){var L=locInfo();qBearing=qiblaB(L.lat,L.lng)}
+}
+function hubAct(a){
+ var p=a.split(':'),c=p[0],s=mfs();
+ if(c==='sr'){var n=+p[1];if(n<1||n>114)return;curS=n;view='surah';render();window.scrollTo(0,0)}
+ else if(c==='qf'){s.qfs=Math.max(18,Math.min(48,(s.qfs||26)+(p[1]==='+'?2:-2)));mfw(s);render()}
+ else if(c==='hj'){s.hj=+p[1];mfw(s);render()}
+ else if(c==='gps'){var m=$('gpm');if(m)m.textContent='অবস্থান খোঁজা হচ্ছে…';if(!navigator.geolocation){if(m)m.textContent='এই ডিভাইসে অবস্থান পাওয়া যায় না';return}navigator.geolocation.getCurrentPosition(function(r){var z=mfs();z.gps=[r.coords.latitude,r.coords.longitude];mfw(z);render()},function(){var m2=$('gpm');if(m2)m2.textContent='অবস্থান পাওয়া যায়নি। অনুমতি দিয়েছেন কিনা দেখুন।'},{timeout:15000})}
+ else if(c==='qb')qStart();
+ else if(c==='tb'){var z=tbS();if(p[1]==='+')tbTap();else if(p[1]==='r'){z.tb.c=0;mfw(z);render()}else if(p[1]==='t'){z.tb.t=+p[2];mfw(z);render()}else if(p[1]==='l'){z.tb.l=+p[2];z.tb.c=0;mfw(z);render()}}
+ else if(c==='am'){
+  normalize();var d=amd||(amd=dkey());
+  if(p[1]==='p'){amd=amShift(d,-1);render()}else if(p[1]==='n'){amd=amShift(d,1);render()}
+  else if(p[1]==='t'){var r=db.amol[d]||(db.amol[d]={});if(r[p[2]])delete r[p[2]];else r[p[2]]=1;save();render()}
+  else if(p[1]==='a'){var v=$('amn').value.trim();if(!v)return;db.amolx.push({id:Date.now(),name:v});save();render()}
+  else if(p[1]==='d'){var id=+p[2];db.del.push(id);db.amolx=db.amolx.filter(function(x){return x.id!==id});save();render()}
+ }
+ else if(c==='hd'){var inp=$('hdn'),n2=inp?parseInt(inp.value)||1:1;if(p[1]==='p')n2=Math.max(1,n2-1);else if(p[1]==='n')n2++;else if(p[1]==='r')n2=1+Math.floor(Math.random()*500);hadithGo(n2)}
+}
+$('app').addEventListener('change',function(ev){
+ var t=ev.target;
+ if(t.id==='ptd'){if(t.value==='g')return;var s=mfs();s.d=+t.value;delete s.gps;mfw(s);render()}
+ else if(t.id==='hed'){var z=mfs();z.he=t.value;mfw(z)}
+});
+$('app').addEventListener('input',function(ev){
+ var t=ev.target;if(!t)return;
+ if(t.dataset&&t.dataset.adj){var s=mfs();s.adj=s.adj||{};s.adj[t.dataset.adj]=parseInt(t.value)||0;mfw(s)}
+ else if(t.id==='qs'){var q=$('qlist');if(q)q.innerHTML=surahRows(t.value.trim())}
+ else if(t.dataset&&t.dataset.fl){var v=t.value.trim(),els=document.querySelectorAll('#app .fi');for(var i=0;i<els.length;i++)els[i].style.display=(!v||els[i].textContent.indexOf(v)>=0)?'':'none'}
+});
+function hd(t){return '<div class="top"><button class="back" data-v="'+((view==='set'||view==='acct')?'hub':'home')+'">← ফিরুন</button><h2>'+t+'</h2></div>'}
 $('app').addEventListener('click',function(ev){
  var t=ev.target.closest('button');if(!t)return;
  if(t.dataset.v){view=t.dataset.v;pendingPic='';lmid=0;render();window.scrollTo(0,0)}
@@ -579,6 +864,7 @@ $('app').addEventListener('click',function(ev){
  else if(t.id==='gin'){gLogin(false)}
  else if(t.id==='gsync'){gSync()}
  else if(t.id==='gout'){gLogout()}
+ else if(t.dataset.h){hubAct(t.dataset.h)}
  else if(t.dataset.rc){receipt(+t.dataset.rc)}
  else if(t.dataset.lm){lmid=+t.dataset.lm;lmtext=null;render();window.scrollTo(0,0)}
  else if(t.id==='lmc'){if(navigator.clipboard)navigator.clipboard.writeText(lmtext||'').then(function(){$('lmm').textContent='কপি হয়েছে ✓'})}

diff --git a/sw.js b/sw.js
@@ -1,4 +1,4 @@
-var C='hishab-v2',F=['./','./index.html','./manifest.json','./icon-192.png','./icon-512.png'];
+var C='almiftah-v3',F=['./','./index.html','./manifest.json','./icon-192.png','./icon-512.png','./content.json'];
 self.addEventListener('install',function(e){e.waitUntil(caches.open(C).then(function(c){return c.addAll(F)}).then(function(){return self.skipWaiting()}))});
 self.addEventListener('activate',function(e){e.waitUntil(caches.keys().then(function(k){return Promise.all(k.filter(function(x){return x!==C}).map(function(x){return caches.delete(x)}))}).then(function(){return self.clients.claim()}))});
 self.addEventListener('fetch',function(e){
